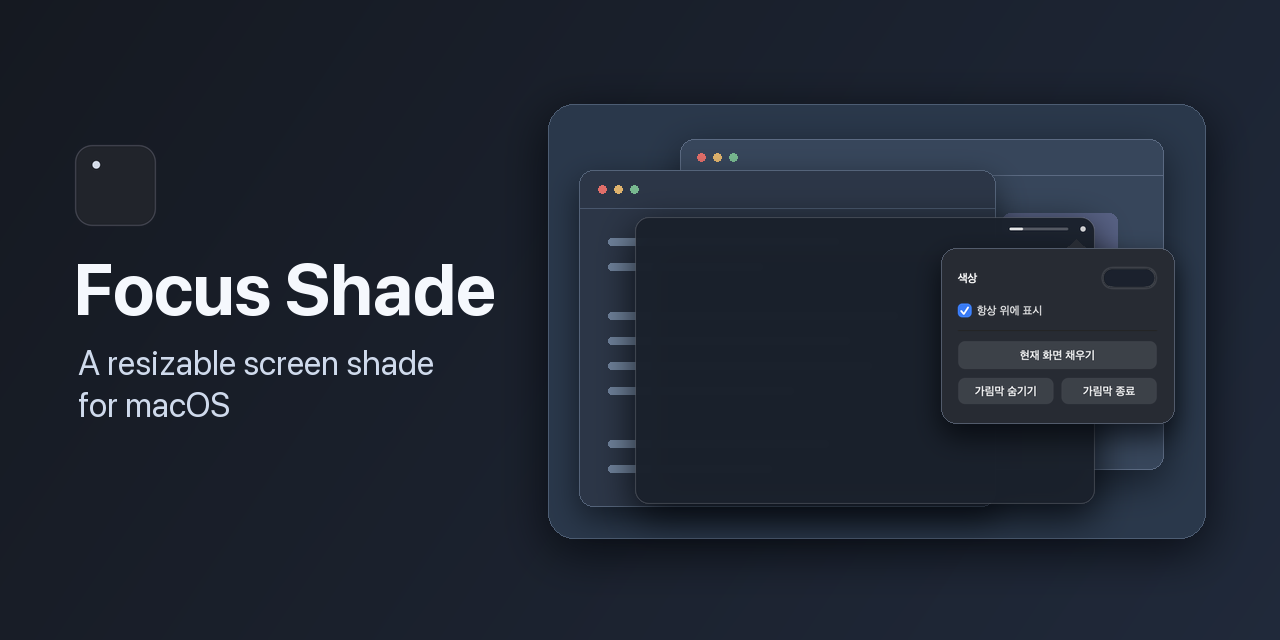
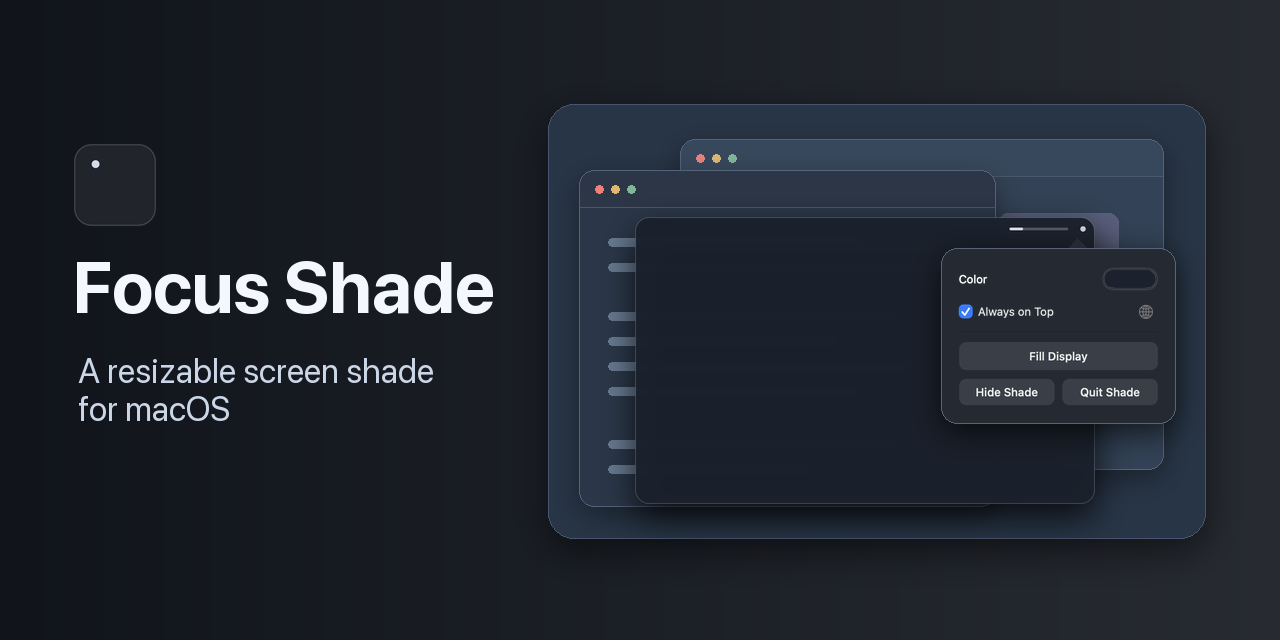
docs: match README previews to each language

diff --git a/README.md b/README.md
@@ -6,7 +6,7 @@ Focus Shade is a resizable overlay for macOS. Use it to cover part of a display 
 
 [Build from source](#build) · [Releases](../../releases) · [한국어](README.ko.md)
 
-![Focus Shade overlay and settings popover on a sample desktop](docs/preview.png)
+![Focus Shade overlay with its settings in English](docs/preview.png)
 
 ## Use it
 

diff --git a/README.ko.md b/README.ko.md
@@ -6,7 +6,7 @@
 
 [빌드 방법](#빌드) · [릴리스](../../releases) · [English](README.md)
 
-![가상 데스크톱 위의 가림막과 설정 팝오버](docs/preview.png)
+![가림막과 한국어 설정 메뉴](docs/preview.ko.png)
 
 ## 사용법
 
